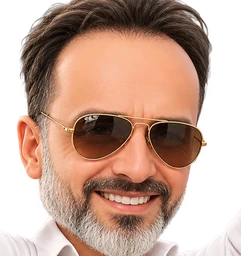
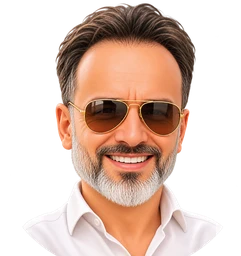
Tuncay portre avatari

diff --git a/sw.js b/sw.js
@@ -1,6 +1,6 @@
 // DartX — internetsiz çalışma (önbellek)
 // Yeni sürüm yayınlarken VERSION'u artır.
-const VERSION = 'dartx-1.0.2';
+const VERSION = 'dartx-1.0.3';
 const FILES = [
   'ses/atc/tr-00.mp3',
   'ses/atc/tr-01.mp3',
